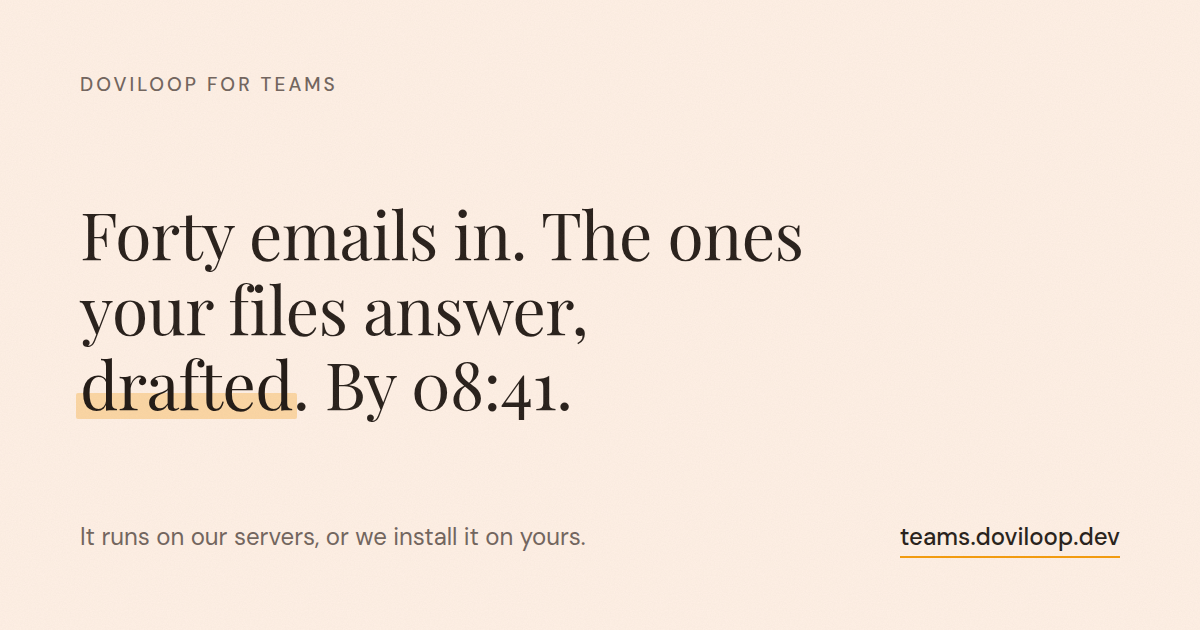
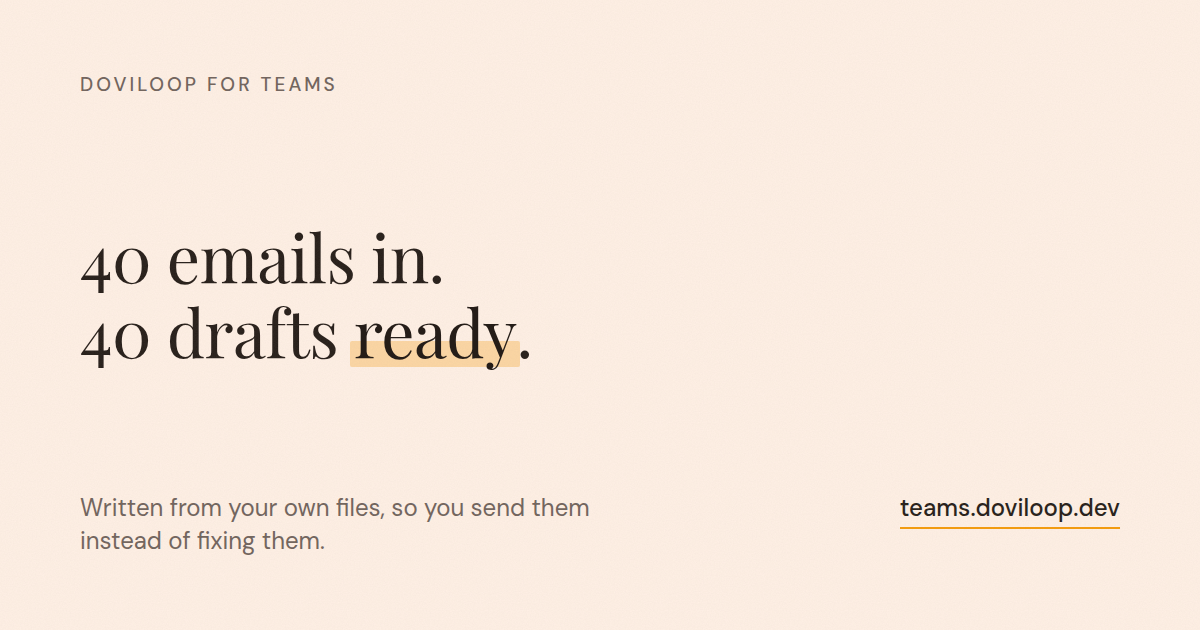
A headline that says the problem and the answer, and nothing else
It read "Forty emails in. The ones your files answer, drafted. By
08:41." Twelve words, four lines at desktop width, and the thing that
actually sells the product buried in a subordinate clause. A reader who
has been on the page for one second got a promise about a time before
they knew what arrives at it.

Two beats now, the same shape and the same number:

  40 emails in.
  40 drafts ready.

and a line under it that the hero did not have a slot for:

  Written from your own files, so you send them instead of fixing them.

That sub-line is the whole wedge and is why this is a structural change
rather than a copy edit. The reader's current answer to this problem is
pasting the question into a chatbot, reading back something generic and
correcting it into something true. The difference is not that a draft
appears, it is that the draft came out of their own files and does not
need the correcting. The headline can say what arrives; only this can
say why it is worth having, and it could not be said at all without
somewhere to say it.

The clock came out with the old line. It ended "by 08:41", which is a
promise about when, made before the reader knows what. Both clocks still
run in the worked example, where a time means something because there is
a morning around it.

The beats get a line each by the markup, not by luck. Left to wrap,
`text-wrap:balance` evens the line lengths rather than respecting the
sentence, and English broke as "40 emails in. 40 / drafts ready", which
[…]

diff --git a/src/content/types.ts b/src/content/types.ts
@@ -195,12 +195,45 @@ export interface Content {
     skip: string;
     nav: { example: string; price: string; fit: string };
 
-    /** The headline is split so the highlighter can fall on the right phrase in
-        each language rather than on a fixed word count, and so the time the
-        work is finished by is written once, in hero.clockOut, rather than typed
-        into three translations of the same sentence. The headline carries the
-        outcome: what the reader ends up with, and when. */
-    title: { before: string; mark: string; mid: string; after: string };
+    /** The headline, split so the highlighter can fall on the right phrase in
+        each language rather than on a fixed word count.
+
+        Two beats and nothing else since 2026-09-22: the problem, then the
+        same number as the answer to it. Each beat is a slot of its own, and
+        the component gives each one its own line, because the whole force of
+        the headline is the two of them being the same shape and the same
+        number. Left to wrap, `text-wrap:balance` evens the line lengths
+        instead and English broke as "40 emails in. 40 / drafts ready", which
+        splits the second beat and hides the parallel. No max-width moves it:
+        balance works inside whatever width it is given. Danish broke correctly
+        by luck and Lithuanian broke into three. It used to carry the mechanism and
+        the finishing time as well, and ran to four lines at desktop width
+        with the mechanism buried in a subordinate clause, which is a lot of
+        headline for a reader who has been on the page for one second.
+
+        The `mid` slot and the clock went with that. They printed hero.clockOut
+        between two fragments, so the line ended "by 08:41"; the finishing time
+        is the worked example's to make, where the same clock still runs, and
+        the headline now makes the simpler claim. */
+    title: {
+      /** The first beat, whole: the problem, as a sentence of its own. */
+      problem: string;
+      /** The second beat, split so the highlighter can fall on the right word
+          in each language rather than on a fixed word count. */
+      before: string;
+      mark: string;
+      after: string;
+    };
+    /** The line under the headline, and the only place on the page above the
+        fold that says where a draft comes from.
+
+        This is the whole wedge in one sentence. The reader's current answer to
+        this problem is pasting the question into a chatbot, reading back
+        something generic and correcting it into something true, and the
+        difference here is not that a draft appears but that it was written out
+        of their own files and does not need that correction. The headline can
+        say what arrives; only this can say why it is worth having. */
+    lede: string;
     /** The pile of letters, and the one dealt off the top of it.
 
         The card is the drafted reply rather than the message that asked for

diff --git a/src/components/Hero.tsx b/src/components/Hero.tsx
@@ -309,18 +309,33 @@ export function Hero({
 
       <div className="hero-grid" id="hero-content" tabIndex={-1}>
         <div className="hero-copy">
-          {/* The outcome, then the time it is reached by. The clock is the
-              one this headline is allowed to name: clockOut is when the work
-              is done, and the promise is the finishing, not the starting.
-              clockIn still opens the worked example, where the hour is the
-              beginning of a morning rather than the end of a job. */}
+          {/* The problem and the answer to it, in the same breath and the same
+              number. The clock came out on 2026-09-22: the headline used to
+              end "by 08:41", which is a promise about when, made before the
+              reader knows what. Both clocks still run in the worked example,
+              where a time means something because there is a morning around
+              it. */}
           <h1 id="hero-title">
-            {c.hero.title.before}
-            <span className="hero-hl">{c.hero.title.mark}</span>
-            {c.hero.title.mid}
-            <span className="hero-clock">{c.hero.clockOut}</span>
-            {c.hero.title.after}
+            {/* A line each, by the markup rather than by where the text
+                happens to wrap. The two beats are the same shape and open on
+                the same number, and that is the whole argument of the line, so
+                a break that lands inside the second one throws it away.
+                `text-wrap:balance` put English at "40 emails in. 40 / drafts
+                ready", which is exactly that; no max-width moves it, because
+                balance evens the lines inside whatever width it is given. */}
+            <span className="hero-h-beat">{c.hero.title.problem}</span>
+            <span className="hero-h-beat">
+              {c.hero.title.before}
+              <span className="hero-hl">{c.hero.title.mark}</span>
+              {c.hero.title.after}
+            </span>
           </h1>
+
+          {/* Where a draft comes from, which is the only thing that separates
+              this from the chatbot the reader is already pasting into. The
+              headline cannot carry it without becoming the four line sentence
+              it just stopped being. */}
+          <p className="hero-lede">{c.hero.lede}</p>
 
           <div className="hero-act">
             <a className="hero-btn" href="#fit" onClick={() => { onCta(); focusTarget('fit'); }}>

diff --git a/src/styles/paper.css b/src/styles/paper.css
@@ -328,7 +328,25 @@
 @media (min-width:601px){ #hero h1{line-height:1.02; letter-spacing:-.014em} }
 @media (min-width:1024px){ #hero h1{line-height:.98; letter-spacing:-.022em} }
 
-.hero-clock{font-variant-numeric:tabular-nums lining}
+/* One line per beat. A long language wraps inside its own beat, which is a
+   readable three line headline rather than a parallel taken apart. */
+.hero-h-beat{ display:block }
+
+/* `.hero-clock` was here, setting tabular numerals on the 08:41 the headline
+   used to end with. The headline stopped naming a time on 2026-09-22 and the
+   rule had nothing left to style. The two figures the headline does carry are
+   both "40", where tabular spacing would be worse than the proportional
+   default rather than better.
+
+   The line under the headline. It is the wedge, so it is sized to be read
+   rather than skimmed: bigger than body copy, well short of the headline, and
+   measured at 46 characters so it breaks into two lines at desktop width and
+   reads as a sentence rather than a banner. */
+.hero-lede{
+  margin:20px 0 0; max-width:46ch;
+  font-size:clamp(17px, 15px + .42vw, 22px);
+  line-height:1.5; color:var(--muted); text-wrap:pretty;
+}
 
 .hero-hl{
   background-image:linear-gradient(rgba(245,155,10,.52),rgba(245,155,10,.52));

diff --git a/src/content/lt.ts b/src/content/lt.ts
@@ -36,11 +36,12 @@ export const lt: Content = {
     nav: { example: 'Pavyzdys', price: 'Kiek kainuoja', fit: 'Ar tinkame' },
 
     title: {
-      before: '40 laiškų. Tie, į kuriuos atsako Jūsų bylos, ',
-      mark: 'juodraščiuose',
-      mid: '. Iki ',
-      after: ' val.',
+      problem: '40 laiškų.',
+      before: '40 juodraščių ',
+      mark: 'paruošta',
+      after: '.',
     },
+    lede: 'Parašyta remiantis Jūsų pačių bylomis, todėl juos siunčiate, o ne taisote.',
     pileAlt: 'Keturiasdešimties laiškų krūva, laukianti ant stalo.',
     deal: {
       draftLabel: 'Atsakymo juodraštis, paruoštas',

diff --git a/scripts/harness-page.tsx b/scripts/harness-page.tsx
@@ -429,8 +429,7 @@ const drivePoints = (): Array<[number, number, number, number]> => {
          not enough on its own. */
       [
         'the headline, with the hour the work is finished by',
-        c.hero.title.before + c.hero.title.mark + c.hero.title.mid + c.hero.clockOut +
-          c.hero.title.after,
+        c.hero.title.problem + c.hero.title.before + c.hero.title.mark + c.hero.title.after,
       ],
       ['the flat firm fee, on the fee sheet', firmFee.term + money(tier.price) + firmFee.per],
       ['the setup fee, on the fee sheet', setupFee.term + money(OFFER.setupFee)],

diff --git a/src/content/da.ts b/src/content/da.ts
@@ -36,11 +36,12 @@ export const da: Content = {
     nav: { example: 'Eksempel', price: 'Hvad det koster', fit: 'Passer det' },
 
     title: {
-      before: 'Fyrre mails ind. Dem jeres sager svarer på, ',
-      mark: 'i udkast',
-      mid: '. Inden klokken ',
+      problem: '40 mails ind.',
+      before: '40 udkast ',
+      mark: 'klar',
       after: '.',
     },
+    lede: 'Skrevet ud fra jeres egne sager, så I sender dem i stedet for at rette dem.',
 
     pileAlt: 'En bunke på fyrre breve, der venter på et skrivebord.',
     deal: {

diff --git a/src/content/en.ts b/src/content/en.ts
@@ -33,11 +33,12 @@ export const en: Content = {
     nav: { example: 'Example', price: 'What it costs', fit: 'Fit' },
 
     title: {
-      before: 'Forty emails in. The ones your files answer, ',
-      mark: 'drafted',
-      mid: '. By ',
+      problem: '40 emails in.',
+      before: '40 drafts ',
+      mark: 'ready',
       after: '.',
     },
+    lede: 'Written from your own files, so you send them instead of fixing them.',
 
     pileAlt: 'A pile of forty letters waiting on a desk.',
     deal: {
